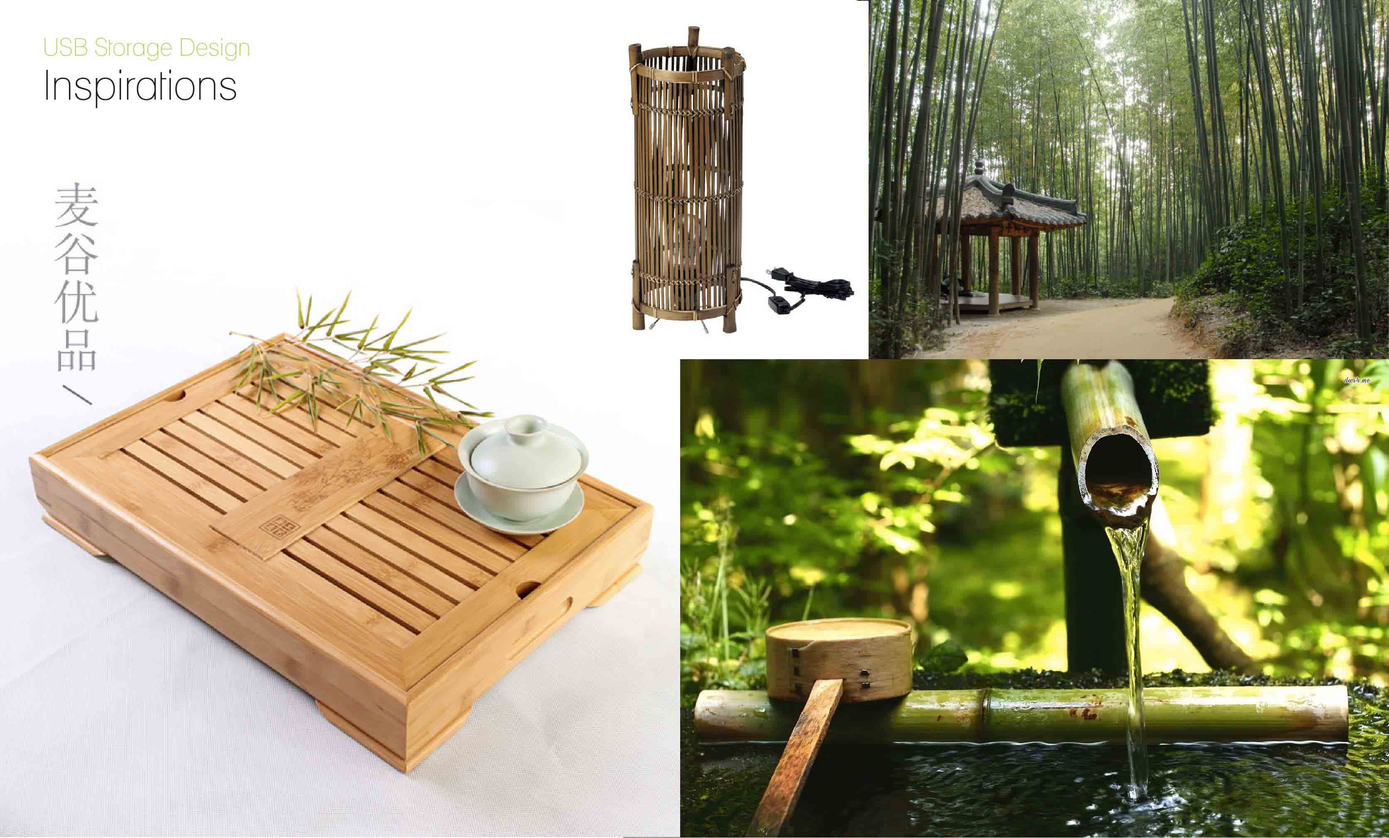
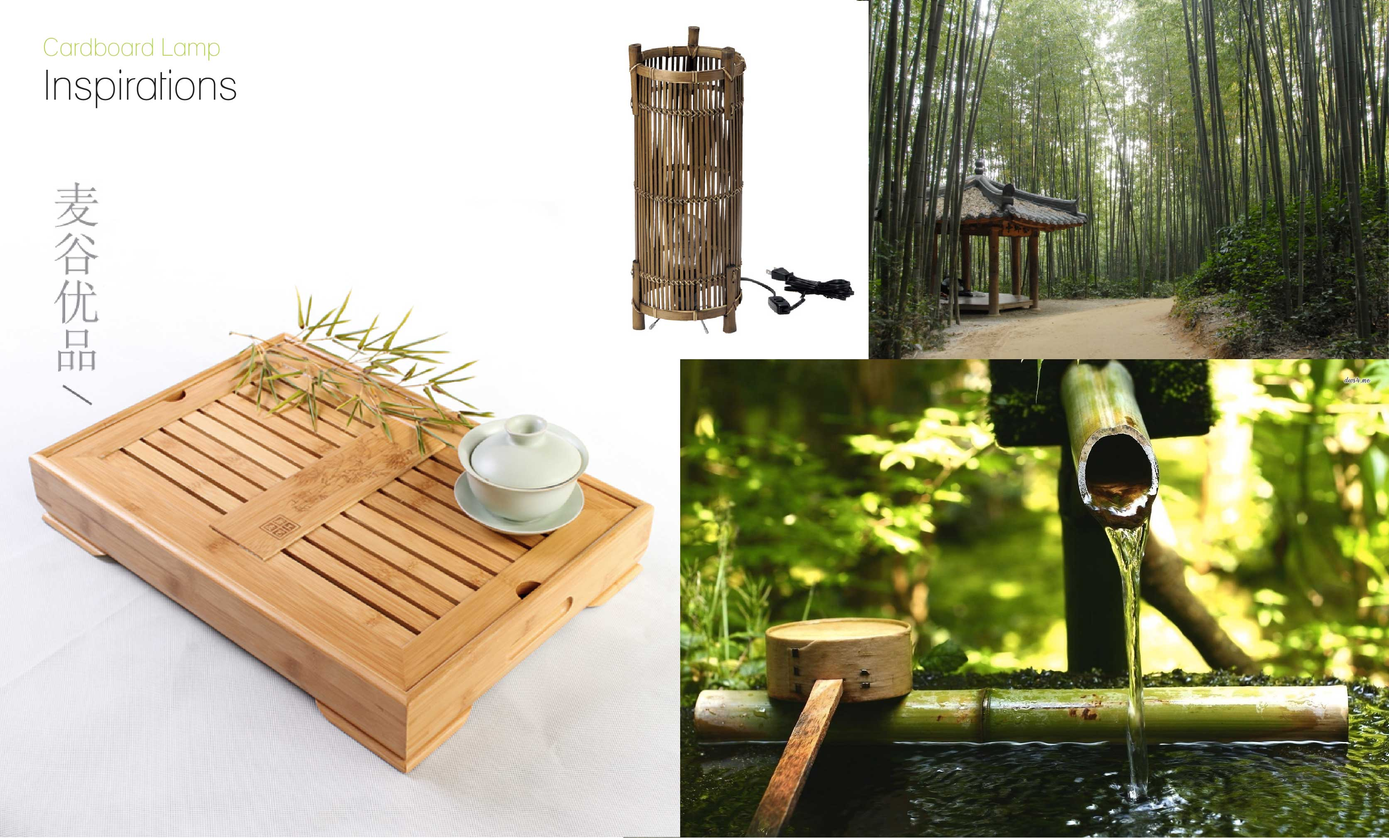
Lamp Update

Changed region(s): [[0.0311, 0.0312, 0.1865, 0.0937]]

diff --git a/DIY/DIY.html b/DIY/DIY.html
@@ -114,10 +114,13 @@
 		              <a><img src="images/cardboard_lamp-27.jpg" alt="page2"/></a> 
 		            </li>
 		            <li>
-		              <a><img src="images/cardboard_lamp-29.jpg" alt="page3"/></a> 
+		              <a><img src="images/cardboard_lamp-28.jpg" alt="page3"/></a> 
 		            </li>
 		            <li>
-		              <a><img src="images/cardboard_lamp-28.jpg" alt="page4"/></a> 
+		              <a><img src="images/cardboard_lamp-29.jpg" alt="page4"/></a> 
+		            </li>
+		            <li>
+		              <a><img src="images/cardboard_lamp-30.jpg" alt="page5"/></a> 
 		            </li>
 		     </ul><br/>
 		</section>
